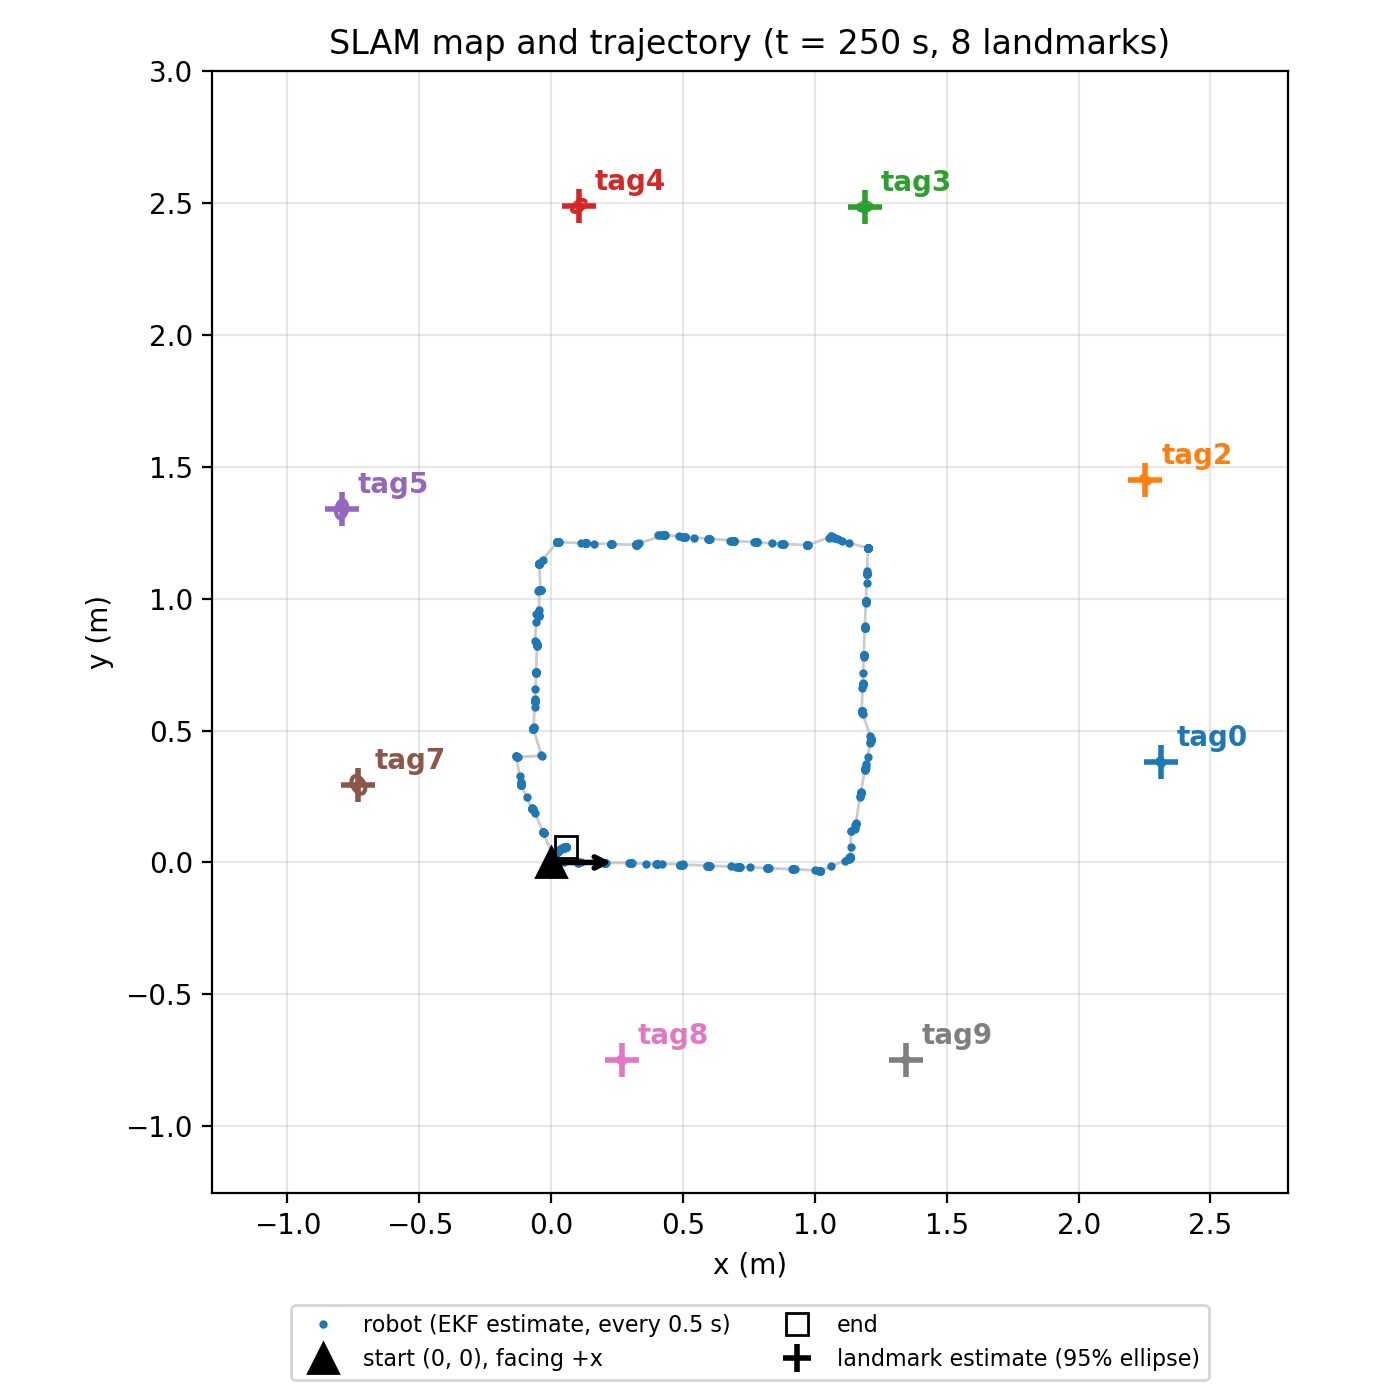
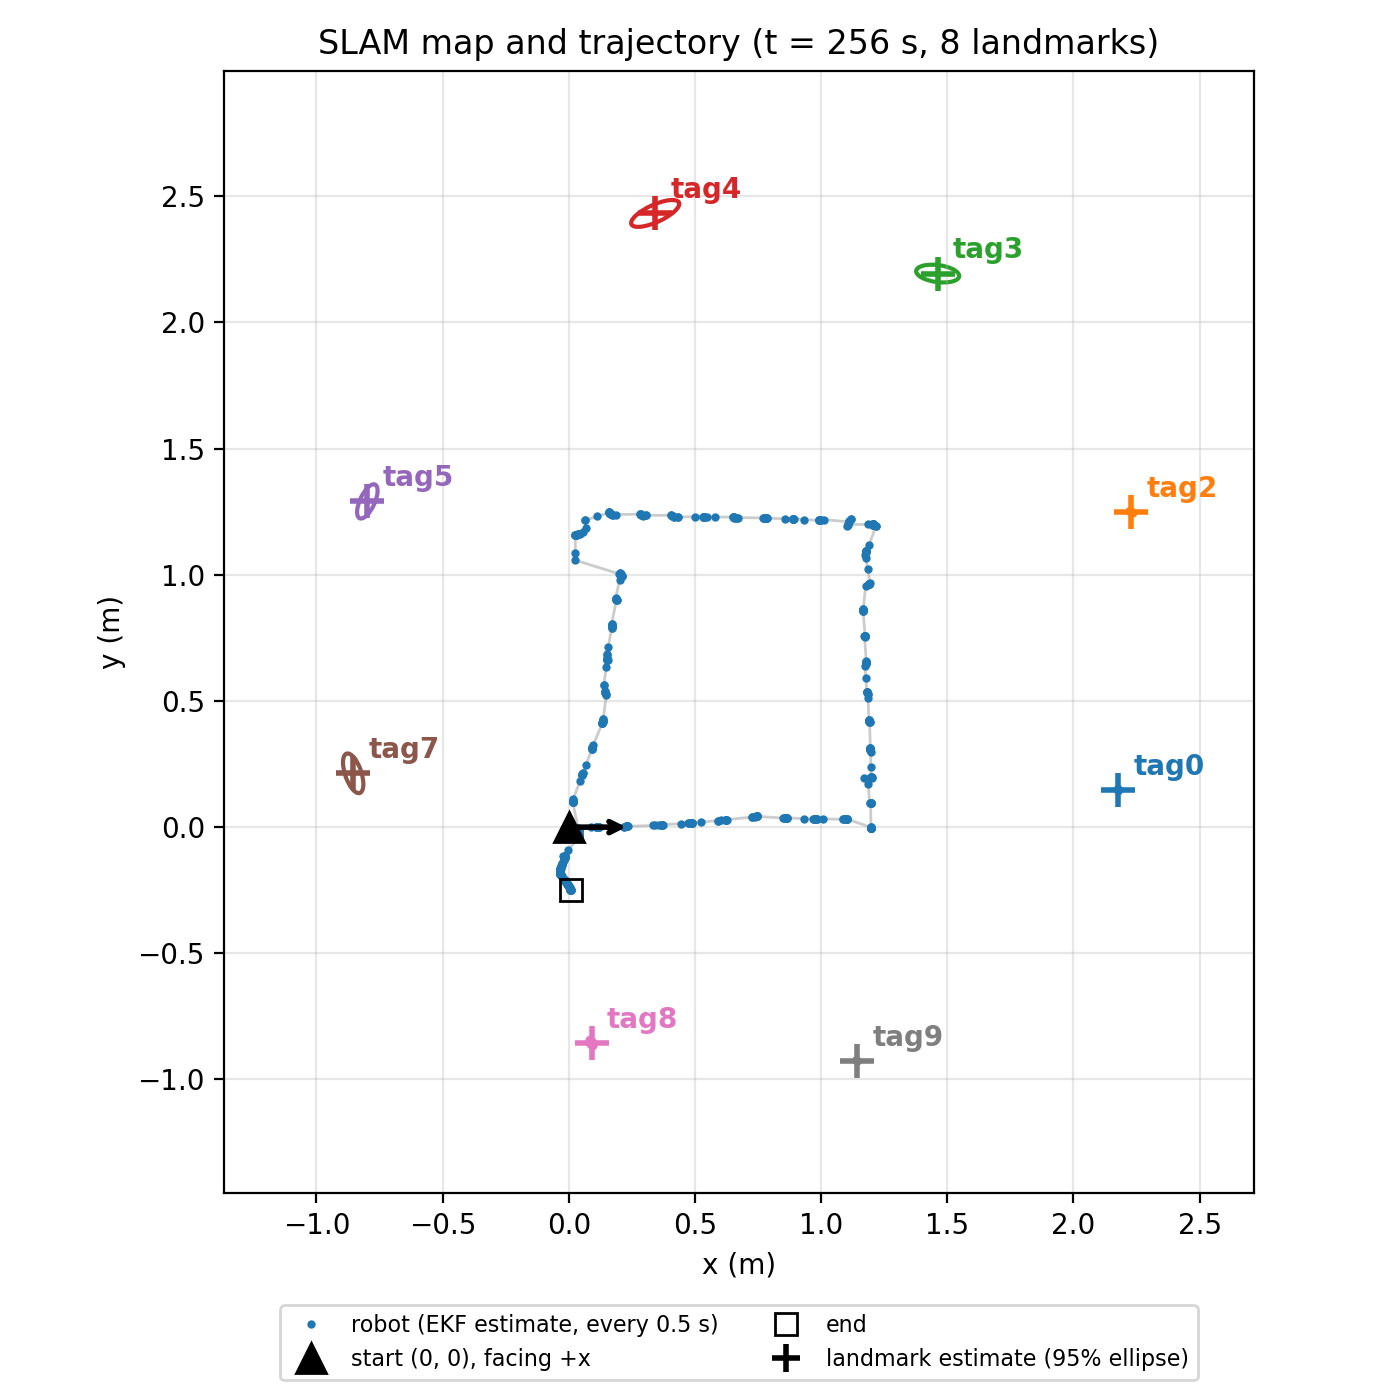
s1.2*1

diff --git a/test_plot/plot.py b/test_plot/plot.py
@@ -28,7 +28,7 @@ import numpy as np                                     # noqa: E402
 from matplotlib.patches import Ellipse                 # noqa: E402
 
 HERE = os.path.dirname(os.path.abspath(__file__))
-LOGS = os.path.expanduser('~/ros2_ws/logs')
+LOGS = os.path.expanduser('~/ros2_ws/src/26fall_cse276a/traj_log')
 CHI2_95 = 5.991                                         # 95% region for 2 DOF
 
 
